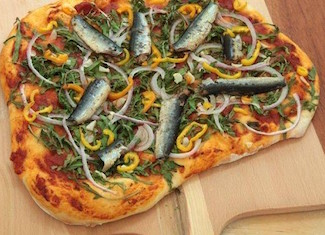
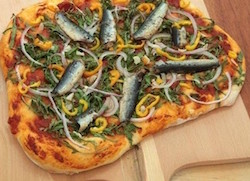
add a couple images and a start price section to page.

diff --git a/index.html b/index.html
@@ -14,10 +14,8 @@
   <body>
     <div class="container">
       <div class="jumbotron">
-        <!-- <img src="grosspizza.jpg" id="left">
-        <img src="fishpizza.jpg" id="right"> -->
         <h1>Build Your Own Sloppy Goddamn Mess!</h1>
-        <p>Finally you can stuff your face with only exactly the ingredients you want! With a base of a pan pizza crust, marinara sauce, and cheese, you can take off into pizza paradise by adding whatever else you could possibly desire!</p>
+        <p>Finally you can stuff your face with only exactly the ingredients you want! With a base of a pan pizza crust, marinara sauce, and cheese, you can take off into pizza paradise by adding whatever else you could ever possibly even desire!</p>
       </div>
 <!-- /Heading-->
 
@@ -42,11 +40,12 @@
           <p>
             Our pizzas start at $18. Each size increase is an extra $3, and each topping is $2, no matter the size.
           </p>
+          <img src="fishpizza.jpg" id="right">
         </div>
         <div class="col-sm-6">
           <form>
             <div class="form-group toppingsCheckbox">
-              <label>Next, what sloppy pile of meat and veg do you want us to slap on there?: (Choose up to 5!)</label><br>
+              <label>Next, what sloppy pile of meat and veg do you want us to slap on there? (Choose up to 5!)</label><br>
                 <select class="form-control topping" id="toppingsPick1">
                   <br><option>NOTHING</option>
                   <br><option>BISON</option>
@@ -125,6 +124,9 @@
             </div>
             <button class="btn btn-danger btn-lg" type="submit" id="buyPizza">Show Me My Za!</button>
           </form>
+        </div>
+        <div class="col-sm-3 pizImage">
+          <img src="grosspizza.jpg" id="left">
         </div>
       </div>
     </div>  <!-- /Input Container -->

diff --git a/css/styles.css b/css/styles.css
@@ -16,6 +16,7 @@ ul {
 .jumbotron {
   text-align: center;
   background-color: #8968CD;
+  margin-top: 15px;
 }
 .jumbotron p {
   font-weight: bold;
@@ -28,5 +29,8 @@ label {
 }
 .menu {
   font-size: 16px;
+  padding-top: 60px;
+}
+.pizImage {
   padding-top: 60px;
 }
